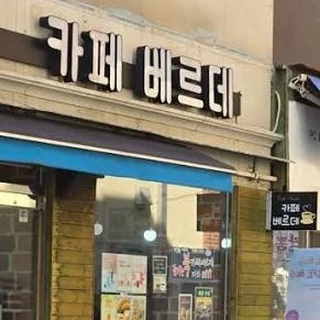
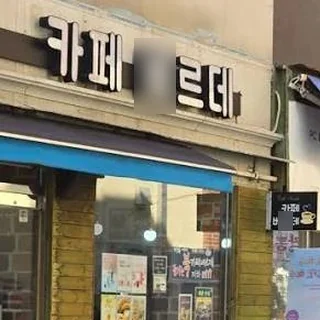
chore: 데모 가게 사진에서 가린 글자 한 자를 블러 처리하고 예시 이름 맞추기

Changed region(s): [[0.4062, 0.125, 0.5625, 0.375], [0.8438, 0.6562, 0.9375, 0.7188]]

diff --git a/frontend/src/features/student/lib/settlements.ts b/frontend/src/features/student/lib/settlements.ts
@@ -26,8 +26,8 @@ export const SETTLEMENT_STATUS_LABEL: Record<SettlementStatus, string> = {
 };
 
 /**
- * 정산 한 줄의 둘째 줄. 「치킨플러스 · 작업 중」 · 「카페베르데 · 9월 12일 정산」 ·
- * 「치킨플러스 · 8월 10일 사장님 사정 취소」 · 「광운카페 · 9월 3일 성사되지 않음」
+ * 정산 한 줄의 둘째 줄. 「치킨O러스 · 작업 중」 · 「카페O르데 · 9월 12일 정산」 ·
+ * 「치킨O러스 · 8월 10일 사장님 사정 취소」 · 「광운카페 · 9월 3일 성사되지 않음」
  */
 export function settlementDetailText(item: SettlementItem): string {
   const store = item.storeName?.trim() || "가게";

diff --git a/frontend/docs/decisions/0045-chat-work-card-documents.md b/frontend/docs/decisions/0045-chat-work-card-documents.md
@@ -120,7 +120,7 @@ sheet.
   /jobs/{id}/result.
 - **Student past documents** (/student/works/:id/submissions/:submissionId and
   .../request, `StudentPastSubmissionPage`): 제출한 초안 · 수정안 shows the work
-  box (「카페베르데 · 9월 22일 제출 · 수정 0/2」), the flow bar, 「사장님이 이 초안에
+  box (「카페O르데 · 9월 22일 제출 · 수정 0/2」), the flow bar, 「사장님이 이 초안에
   수정을 요청했어요」 when it got one, 원본 파일, and 내가 남긴 한마디; 받은 수정
   요청 shows the owner's request (date, text, 참고 사진) and the files it was
   about. Both have only 「확인」.
